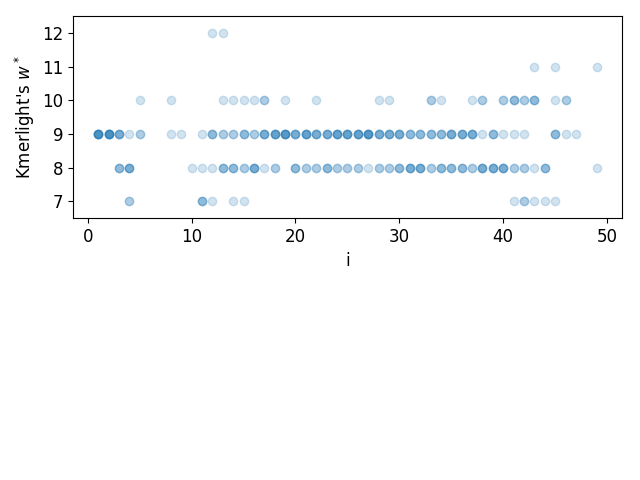
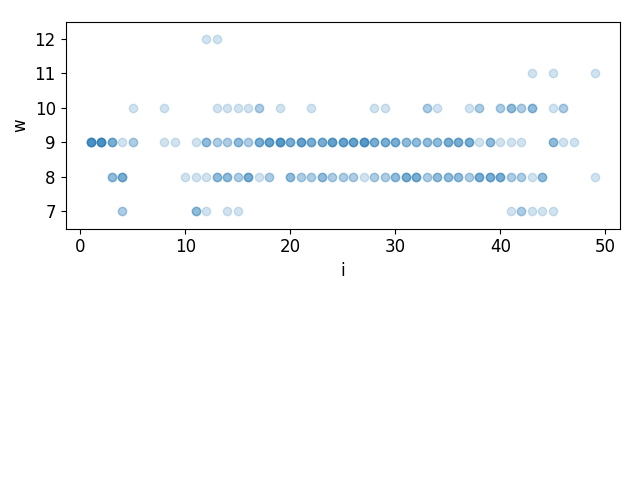
unbiased estimation, variance calculation rewritten, new images

diff --git a/chapter2/variance.tex b/chapter2/variance.tex
@@ -5,16 +5,18 @@ In this section we will derive a rough quantitaitve estimate of variance of $ \h
 and then support its credibility by experimental results.
 
 \subsection{Derivation of $Var(\hat f_i)$}
-Using the observation that the value $w^*$ chosen by Kmerlight often corresponds
-to the analytical $w^*$ and the observation that the value of analytical $w^*$ is a constant
+Using the observation that values $w_i^*$ chosen by Kmerlight often correspond
+to the analytical $w^+$ and the observation that the value of analytical $w^+$ is a constant
 for all $i=1, 2, \dots, m$, we will approximate Kmerlight's variance by a variance
-of $t_i^{(w)}$ at the analytically calculated level $w^*$. In this section we will denote
-$w^*$ simply as $w$, since we will not use any specific property of $w^*$.
+of $t_i^{(w^+)}$. This variance approximation will be even more accurate for our modified
+Kmerlight. 
 
+In this section we will denote
+$w^+$ simply as $w$, since we will not use any specific property of $w^+$.
 
 The number of collision-free $k$-mers is equal to the number of collision-free counters
 as each collision-free counter stores a single $k$-mer. Thus we will use the symbol
-$t_i^{(w)}$ to denote both quantities and it holds that 
+$t_i^{(w)}$ to denote both quantities and  from (\ref{eq:ti}) it holds that 
 $E(t_i^{(w)}) = f_i/2^w \cdot (1 - 1/r)^{F_0/2^w-1}$.
 
 % As the exact probability that from $f_i/2^w$ $k$-mers are exactly $t$
@@ -31,35 +33,44 @@ $E(t_i^{(w)}) = f_i/2^w \cdot (1 - 1/r)^{F_0/2^w-1}$.
 
 \paragraph{Sampling View}
 In order to approximate the variance of estimator $\hat f_i$ we will consider
-$t_i^{(w)}$ to follow a binomial distribution $Bin(f_i, p_s = 1/2^w \cdot (1 - 1/r)^{F_0/2^w-1})$.
-This simplification corresponds a simple sampling process in which we sample each a $k$-mer
-with probability $p_s$ (sampling probability) and we discard each $k$-mer
-with probability $1 - p_s$.
+$t_i^{(w)}$ to follow a binomial distribution $Bin(f_i, p_s)$, where
+$p_s = 1/2^w \cdot (1 - 1/r)^{F_0/2^w-1}$.
+This simplification corresponds to a simple sampling process in which we sample each of $f_i$ 
+$k$-mers with probability $p_s$ (sampling probability) and we discard each $k$-mer
+with probability $1 - p_s$. Note that this approach ignores the fact that the events
+of $k$-mers remaining collision-free are not independent. 
 
 Since a random variable following $Bin(n, p)$ has variance of $np(1-p)$, 
 $Var(t_i^{(w)}) = f_i \cdot p_s \cdot (1-p_s)$. The estimate of $f_i$ is obtained
 as $t_i / p_s$, so
 
-$$ Var(\hat f_i) = Var \left( \frac{t_i}{p_s} \right) = \frac{1}{p_s^2} \cdot Var(t_i) = \frac{f_i \cdot (1 - p_s)}{p_s} $$
+\begin{equation} \label{eq:varhatfi}
+Var(\hat f_i) = Var \left( \frac{t_i}{p_s} \right) = \frac{1}{p_s^2}
+\cdot Var(t_i) = \frac{f_i \cdot (1 - p_s)}{p_s}
+\end{equation}
 
 \paragraph{Effect of Medians}
-Finally, Kmerlight chooses the estimate $\hat f_i$ as a median of estimates of $t$ 
+Kmerlight chooses the estimate $\hat f_i$ as a median of estimates of $t$ 
 independent sketches: $\hat f_i = \mathrm{med}(\hat f_i^{(1)}, \dots \hat f_i^{(t)})$.
 
-To incorporate the effect of medians we will use the claim that for a random
-variable with a density function $f(x)$ and mean $\bar x$ is its sample median
-asymptotically normal:
+To incorporate the effect of medians, we will use the claim that for a continuous random
+variable with a density function $f(x)$ and mean $\bar x$ its sample median from a sample of
+size $n$ is asymptotically\footnote{Rider \cite{Rider1960} have shown however that 
+even for a sample of only $7$ observations, the relative error of this approximation is only
+circa 6\% for a normal random variable.} normal \cite{WikiMedian}:
 
-$$\mathrm{med}(x) ~\dot\sim~ N\left(\bar x, \frac{1}{4nf(\bar x)^2}\right)$$
+\begin{equation} \label{eq:median}
+\mathrm{med}(x) ~\dot\sim~ N\left(\bar x, \frac{1}{4nf(\bar x)^2}\right)
+\end{equation}
 
-As the binmoial distribution of $t_i^{(w)}$ is a discrete distribution and does
+As the binomial distribution of $t_i^{(w)}$ is a discrete distribution and does
 not have a density function, we will approximate $Bin(f_i, p_s)$ with
 $N(\mu = f_i p_s, \sigma^2 = f_i p_s(1-p_s))$. The density function of normal distribution
-in the mean is $\frac{1}{\sqrt{2\pi\sigma^2}} e^{-\frac{(\mu - \mu)^2}{2\sigma^2}}$
+in its mean $\mu$ is $\frac{1}{\sqrt{2\pi\sigma^2}} e^{-\frac{(\mu - \mu)^2}{2\sigma^2}}$
 which is $\frac{1}{\sqrt{2\pi\sigma^2}}$.
 
-Using the two previous approximations, variance of $\hat f_i$ selected as a median of
-$t$ instances can be derived as follows:
+Using the two previous approximations (\ref{eq:varhatfi}), (\ref{eq:median}), 
+variance of $\hat f_i$ selected as a median of $t$ instances can be derived as follows:
 
 \begin{equation} \label{eq:variance}
 Var(\hat f_i) \approx \left( 4t\frac{1}{2\pi Var(\hat f_i^{(l)})}) \right)^{-1} =
@@ -68,8 +79,8 @@ Var(\hat f_i) \approx \left( 4t\frac{1}{2\pi Var(\hat f_i^{(l)})}) \right)^{-1} 
 
 
 \subsection{Comparison With Experiments}
-For low $f_i$, a very small number of $k$-mers hash into collision-free counters at level $w^*$.
-Therefore the estimator $\hat f_i$ can reach only a limited set of discrete values (0 if no $k$-mer
+For low $f_i$, a very small number of $k$-mers hash into collision-free counters at level $w_i^*$
+or $w^+$. Therefore the estimator $\hat f_i$ can reach only a limited set of discrete values (0 if no $k$-mer
 survives collisions, 1000 if one $k$-mer is in collision-free counter, 2000 if two $k$-mers survive, \dots),
 and the approximation with normal distribution is not precise for $i \in \{ 5, 6, \dots, 14, 15, 40, 41, \dots\}$.
 

diff --git a/chapter2/unbiased-estimation.tex b/chapter2/unbiased-estimation.tex
@@ -2,44 +2,53 @@
 \label{sec:unbiased-estimate}
 
 Based on our observations in the previous section we will alter Kmerlight 
-to produce unbiased estimates of $f_i$.
+to produce unbiased estimates of $f_i$ (under the assumption that there are no undetedected
+collisions).
 
-To achieve an unbiased estimate of $f_i$ we fix the value of $w^*$. 
-With this alteration, Kmerlight will no longer choose the level
-that maximzes the number of collision-free counters, but the level that maximizes
-the expected number number of collision-free counters.
+To achieve an unbiased estimate of $f_i$ we will use the level that maximizes the
+expected number number of collision-free counters, instead of the level that maximzes the number
+of collision-free counters. We will base our estimates of $f_i$ on the level $w^+$, 
+instead of $w_i^*$. Our modified Kmerlight thus loses the ability to choose the maximal 
+$t^{(w)}$, and the estimates will be now based on values of $t^{(w^+)}$ which
+are expected to vary evenly around their mean $E(t^{(w^+)})$, reaching both higher
+and lower values than $E(t^{(w^+)})$.
 
-Since the expected number of collision-free counters is the same for all abundancies
-$i=1,2,\dots m$, the level $w^*$ from which the estimate $\hat f_i$ will be calculated
-will be the same for all abundancies.
+Note that the value of $\hat f_i$ will be calculated from the same level for every abundance $i$.
+Level $w^+$ will be calculated using only the estimated number of all distinct $k$-mers ($F_0$)
+and the number of counters at each level ($r$).
 
-The value $w^*$ can be calculated using only the number of all distinct
-$k$-mers ($F_0$) and the number of counters at each level ($r$ ).
-
-Firstly, Kmerlight with fixed $w^*$ processes all the $k$-mers in the same
-way as the original Kmerlght did. Then $F_0$ is estimated and the
-value is $w^*$ calculated to maximize the expected number of
-collision-free counters as it was described in section \ref{}.
+Modified Kmerlight first processes all the $k$-mers in the same
+way as the original Kmerlight. Then $F_0$ is estimated from all Kmerlight's instances\footnote{
+The value of $F_0$ is estimated in the original way as presented in (\ref{eq:hatF0}).
+Note that the estimate depends on the value of $t_0^{(w)}$, $E(t_0^{(w)}) = r \cdot p_e$. 
+Number of empty counters reach high values ($t_0^{(w^*)} \approx r/2$) thus $t_0$ has low
+relative variance and so the effects that biased $\hat f_i$ do not occur here or they cause 
+a smaller scale differences. We do no challenge the unbiasdness of the estimator $\hat F_0$
+in our work.
+}
+and the value $w^+$ is calculated to maximize the expected number of
+collision-free counters as it was described in section \ref{sec:analytical-w}.
 Finally, values of $f_i$ are estimated from the observed counts of 
-collision-free counters at level $w^*$.
+collision-free counters at level $w^+$ by (\ref{eq:hatfi}).
 
-In figures \ref{img:mean-new-algorithm} and \ref{img:std-new-algorithm} we present the comparison
-of the original Kmerlight and Kmerlight with fixed $w^*$. Our new algorithm removes bias
-and maintains the same accuracy (variance) of the estimates.
+In figures \ref{img:mean-new-algorithm} and \ref{img:std-new-algorithm}, we present a comparison
+of the original Kmerlight and the modified Kmerlight. We ran both versions of Kmerlight
+on the same data as described in \ref{sec:error-characteristics} in 300 trials. 
+Our new algorithm removes bias and maintains the same accuracy (variance) of the estimates.
 
-
-\begin{figure}
-\centerline{\includegraphics[width=0.8\textwidth, trim={0cm, 3cm, 0cm, 0cm}, clip]{images/means_comparison.png}}
-\caption[Mean error of normal Kmerlight and Kmerlight with fixed $w^*$]{Mean errors of estimates
-($\hat f_i - f_i$) from 50 trials. While the original Kmerlight overestimates 
-$f_i$ significantly in an average run, Kmerlight with fixed $w^*$ achieves $E(\hat f_i) \approx f_i$.}
+\begin{figure}[h!]
+\centerline{\includegraphics[width=0.8\textwidth, trim={0cm, 3.5cm, 0cm, 0cm}, clip]{images/means_comparison.png}}
+\caption[Mean error of the original Kmerlight and the modified Kmerlight]{Mean errors of estimates
+($\hat f_i - f_i$) produced by original (blue) and modified (orange) Kmerlight in 300 trials. 
+While the original Kmerlight overestimates $f_i$ significantly in an average run,
+modified Kmerlight achieves $E(\hat f_i) \approx f_i$.}
 \label{img:mean-new-algorithm}
 \end{figure}
 
-\begin{figure}
-\centerline{\includegraphics[width=0.8\textwidth, trim={0cm, 3.5cm, 0cm, 0cm}, clip]{images/std_deviations_comparison.png}}
-\caption[Variance of normal Kmerlight and Kmerlight with fixed $w^*$]{Standard deviation of estimates
-($\hat f_i - f_i$) from 50 trials. The alteration in Kmerlight does not change the variance of estimates}
+\begin{figure}[h!]
+\centerline{\includegraphics[width=0.8\textwidth, trim={0cm, 4.3cm, 0cm, 0cm}, clip]{images/std_deviations_comparison.png}}
+\caption[Variance of the original Kmerlight and the modified Kmerlight]{Standard deviation
+of estimates ($\hat f_i - f_i$) produced by original (blue) and modified (orange) Kmerlight 
+in 300 trials. Our modification of Kmerlight does not change the variance of estimates.}
 \label{img:std-new-algorithm}
 \end{figure}
-

diff --git a/chapter2/kmerlight.tex b/chapter2/kmerlight.tex
@@ -65,12 +65,15 @@ The expected number of empty counters at level $w$ is thus $r \cdot p$. Let us d
 number of observed empty counters at level $w$ as $t_0$. Using the asspumtion
 $t_0 \approx r \cdot p$ we can easily derive the estimator of $F_0$:
 
-$$ \hat F_0 = 2^w \cdot \frac{\ln(t_0/r)}{\ln\left(1 - \frac{1}{r}\right)} $$
+\begin{equation} \label{eq:hatF0}
+\hat F_0 = 2^w \cdot \frac{\ln(t_0/r)}{\ln\left(1 - \frac{1}{r}\right)}
+\end{equation}
 
 To estimate the number of distinct $k$-mers, we choose one level of the sketch
 $w^*$, so that the number of empty counters at this level ($t_0$) is closest to $r/2$.
-In \cite{Melsted2014} it has been shown that selecting this level
-provides a bounded error of $\hat F_0$ with guaranteed probability.
+This estimator of $F_0$ was first presented in the article by Bar-Yossef et al. in 2002
+\cite{Bar-Yossef2002} and it has been shown that selecting this level provides a bounded 
+error of $\hat F_0$ with guaranteed probability.
 
 \paragraph{Estimator of $f_i$}
 The expected number of distinct $k$-mers with abundance $i$ hashed to level $w$ is $f_i / 2^w$.
@@ -83,7 +86,11 @@ t_i \approx f_i / 2^w \cdot \left(1 - \frac{1}{r}\right)^{F_0/2^w - 1}
 \end{equation}
 If we denote the number of observed collision-free counters with value $i$ as $t_i$,
 we can derive the estimator of $f_i$:
-$\hat f_i = t_i \cdot 2^w \cdot \left(1 - \frac{1}{r}\right)^{1 - F_0/2^w}$.
+
+\begin{equation} \label{eq:hatfi}
+\hat f_i = t_i \cdot 2^w \cdot \left(1 - \frac{1}{r}\right)^{1 - F_0/2^w}
+\end{equation}
+
 
 Again, one level $w^*$ is selected to estimate $f_i$, so that it maximizes $t_i$ -- the number 
 of observed collision-free counters with value $i$. This decision was not discussed by the authors,

diff --git a/chapter2/source-of-bias.tex b/chapter2/source-of-bias.tex
@@ -83,13 +83,13 @@ $$
 and if we do the same for the level $w^+-1$ we get:
 $$ 
 2 \cdot \frac{F_0}{2^{w^+}} \left(\frac{1}{4}\right)^2 \left(1 - \frac{1}{r}\right)^{-1}
-\leq E(t^{(w^+)}) \leq 
+\leq E(t^{(w^+-1)}) \leq 
 2 \cdot \frac{F_0}{2^{w^+}} \left(\frac{1}{2}\right)^2 \left(1 - \frac{1}{r}\right)^{-1}
 $$
 Finally, for the level $w^++1$ we get:
 $$ 
 \frac{1}{2} \cdot \frac{F_0}{2^{w^+}} \left(\frac{1}{4}\right)^{1/2} \left(1 - \frac{1}{r}\right)^{-1}
-\leq E(t^{(w^+)}) \leq 
+\leq E(t^{(w^++1)}) \leq 
 \frac{1}{2} \cdot \frac{F_0}{2^{w^+}} \left(\frac{1}{2}\right)^{1/2} \left(1 - \frac{1}{r}\right)^{-1}
 $$
 
@@ -111,7 +111,7 @@ leads to values of $t_i^{(w^*_i)}$ consistently higher than values of $E(t_i^{(w
 which consequently biases the estimator $\hat f_i$ towards higher values.
 
 \begin{figure}[h]
-\centerline{\includegraphics[width=0.8\textwidth, trim={0cm, 5.5cm, 0cm, 0cm}, clip]{images/kmerlight_wstar.png}}
+\centerline{\includegraphics[width=0.75\textwidth, trim={0cm, 5.2cm, 0cm, 0cm}, clip]{images/kmerlight_wstar.png}}
 \caption[$w_i^*$ selected by Kmerlight]{Each column 
 shows at most seven levels $w_i^*$ that were selected by one of seven instances of Kmerlight.
 If a level was chosen by more instances for a specific $i$, its circle is darker.

diff --git a/chapter1/histogram-computing-methods.tex b/chapter1/histogram-computing-methods.tex
@@ -129,10 +129,14 @@ the sketch can be analyzed to provide the estimate of the $k$-mer abundance hist
 
 \medskip
 
-In 2014 Melsted and Halldórsson introduced a streaming algorithm KmerStream \cite{Melsted2014}
-which was able to estimate the number of distinct $k$-mers ($F_0 = \sum_{i=1}^{m} f_i$) and also
-the number of $k$-mers with abundance one, $f_1$. According to authors, this algorithm is
-at least three times faster than KmerGenie and it can use ten times less memory.
+A streaming Algorithm 2 presented by Bar-Yossef et al. in 2002 \cite{Bar-Yossef2002} was
+able to estimate the number of distinct elements in a stream ($F_0 = \sum_{i=1}^{m} f_i$)
+with theoretical guarantees. 
+
+In 2014 Melsted and Halldórsson \cite{Melsted2014} implemented this algorithm and used it for
+$k$-mer counting. Their algorithm KmerStream also extended Algorithm 2, since it was able
+to estimate the number of $k$-mers with abundance one, $f_1$. According to authors, this
+algorithm is at least three times faster than KmerGenie and it can use ten times less memory.
 
 KmerStream was further improved by Sivadasan et al.\ in 2016 \cite{Sivadasan2016}
 and their software Kmerlight was able to estimate the whole histogram ($f_1, f_2, \dots , f_m$).

diff --git a/chapter2/errors-observation.tex b/chapter2/errors-observation.tex
@@ -65,7 +65,7 @@ and then we use this knowledge to set Kmerlight's parameters to achieve
 a desired error in \ref{sec:parameters-choice}.
 
 \begin{figure}
-\centerline{\includegraphics[width=0.8\textwidth, trim={0cm, 0cm, 0cm, 0cm}, clip]{{images/relative_errors_mean_std_L1000000_c50_e0.02_k21_normal}.png}}
+\centerline{\includegraphics[width=0.8\textwidth, trim={0cm, 1.2cm, 0cm, 0cm}, clip]{{images/relative_errors_mean_std}.png}}
 \caption[Relative approximation errors]{The mean and standard deviation of relative
 errors $(\hat f_i - f_i) / f_i$ for columns sorted by decreasing $f_i$.
 The drop in both statistics at values $\lambda = 10^5$ is caused by Kmerlight's 
